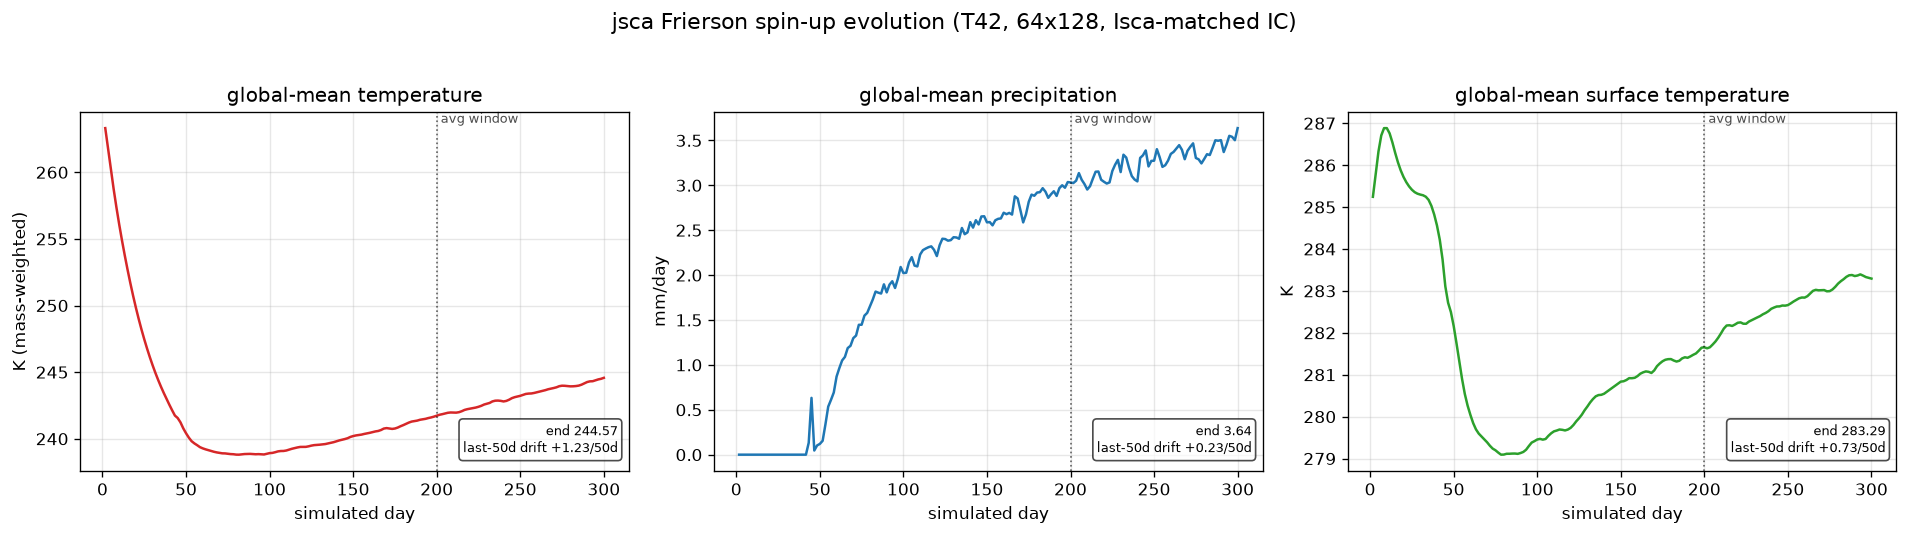
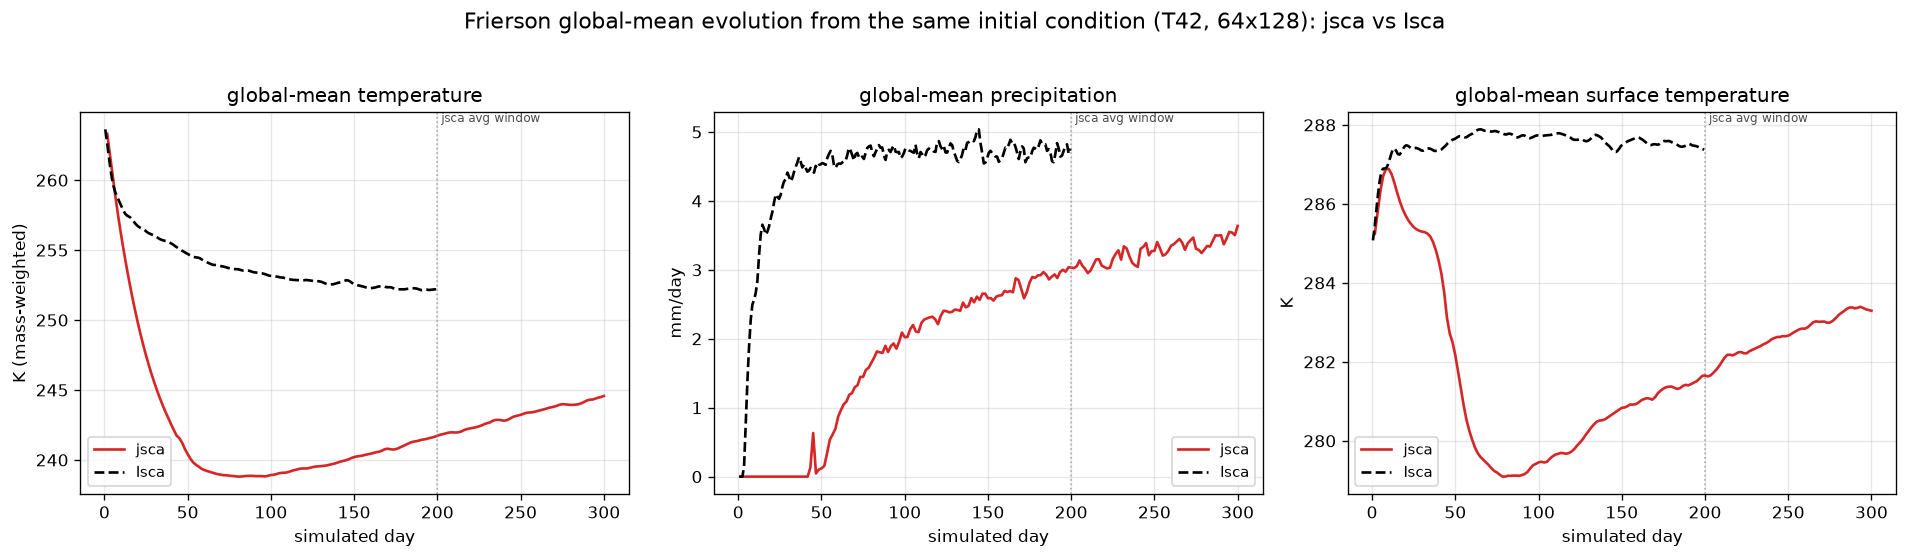
frierson: compare jsca vs Isca global-mean spin-up evolution
Add Isca's per-day global-mean time series (extracted from the 200-day
frierson_test_case atmos_daily.nc, same weighting as the jsca driver) and
overlay it on jsca's evolution. Both start from the same IC, so the
trajectories are directly comparable:

  * Isca equilibrates fast -- surface flat by ~day 25 (285->287.4 K),
    column T ~252 K and precip ~4.6 mm/day by ~day 100; no cold overshoot.
  * jsca overshoots cold/dry (column to 239 K, surface to 279 K by day 85,
    precip ~0 for the first ~6 weeks) then recovers slowly, still climbing
    at day 300 toward Isca's values.

So the climatology cold bias is jsca sampled mid-recovery on a much
longer equilibration timescale; the slow moisture spin-up is the visible
signature. Per-step physics is machine-precision validated, so the
difference is in the transient approach, not the tendencies.

- extract_isca_evolution.py: reproducible extractor for the Isca series
- plot_frierson_evolution.py: overlay jsca vs Isca
- frierson_isca_evolution_t42.npz committed; docs updated

Part of #27.

diff --git a/scripts/plot_frierson_evolution.py b/scripts/plot_frierson_evolution.py
@@ -1,17 +1,18 @@
-"""Temporal evolution of jsca Frierson global means (spin-up + averaging window).
+"""Temporal evolution of Frierson global means -- jsca vs Isca.
 
-Reads a time-series ``.npz`` written by the climatology driver — chunk-mean,
-area-weighted global means recorded every ~1.7 simulated days:
+Overlays the spin-up trajectories of the area-weighted global means (mass-weighted
+T, precip mm/day, t_surf) for jsca and, if available, the real Isca run. Both
+runs start from the *same* initial condition (Isca's Frierson IC), so the
+trajectories are directly comparable -- this is the diagnostic behind the
+"is the cold bias just slow equilibration?" question in
+``docs/frierson_climatology.md``.
 
-  ``day``, ``gm_T`` (mass-weighted global-mean temperature, K),
-  ``gm_precip`` (global-mean precipitation, mm/day), ``gm_tsurf`` (K).
+References (in ``baseline/reference/``):
+  * ``frierson_jsca_evolution_t42x64.npz`` -- jsca (``day``, ``gm_T``,
+    ``gm_precip``, ``gm_tsurf``, ``spinup_end_day``);
+  * ``frierson_isca_evolution_t42.npz``   -- Isca, same keys (optional).
 
-Plots the three series so the approach to equilibrium (and any residual drift)
-is visible at a glance — the diagnostic behind the "is the cold bias just
-incomplete equilibration?" question in ``docs/frierson_climatology.md``.
-
-Usage: ``python scripts/plot_frierson_evolution.py [timeseries.npz] [out.png]``
-Defaults read the committed ``baseline/reference/frierson_jsca_evolution_t42x64.npz``.
+Usage: ``python scripts/plot_frierson_evolution.py [jsca.npz] [out.png]``
 """
 import sys
 from pathlib import Path
@@ -23,39 +24,37 @@ matplotlib.use("Agg")
 import matplotlib.pyplot as plt  # noqa: E402
 
 ROOT = Path(__file__).resolve().parent.parent
-src = Path(sys.argv[1]) if len(sys.argv) > 1 else \
-    ROOT / "baseline" / "reference" / "frierson_jsca_evolution_t42x64.npz"
+ref = ROOT / "baseline" / "reference"
+jsrc = Path(sys.argv[1]) if len(sys.argv) > 1 else ref / "frierson_jsca_evolution_t42x64.npz"
 out = Path(sys.argv[2]) if len(sys.argv) > 2 else \
     ROOT / "docs" / "figures" / "frierson_spinup_evolution.png"
+isrc = ref / "frierson_isca_evolution_t42.npz"
 
-d = np.load(src)
-day, gm_T, gm_P, gm_Ts = d["day"], d["gm_T"], d["gm_precip"], d["gm_tsurf"]
-spinup_end = float(d["spinup_end_day"]) if "spinup_end_day" in d else None
+J = np.load(jsrc)
+I = np.load(isrc) if isrc.exists() else None
+spinup_end = float(J["spinup_end_day"]) if "spinup_end_day" in J else None
 
-fig, axes = plt.subplots(1, 3, figsize=(16, 4.5))
-panels = [
-    (gm_T, "global-mean temperature", "K (mass-weighted)", "C3"),
-    (gm_P, "global-mean precipitation", "mm/day", "C0"),
-    (gm_Ts, "global-mean surface temperature", "K", "C2"),
-]
-for ax, (y, title, ylab, c) in zip(axes, panels):
-    ax.plot(day, y, color=c, lw=1.5)
+fig, axes = plt.subplots(1, 3, figsize=(16, 4.7))
+panels = [("gm_T", "global-mean temperature", "K (mass-weighted)"),
+          ("gm_precip", "global-mean precipitation", "mm/day"),
+          ("gm_tsurf", "global-mean surface temperature", "K")]
+for ax, (key, title, ylab) in zip(axes, panels):
+    ax.plot(J["day"], J[key], color="C3", lw=1.6, label="jsca")
+    if I is not None:
+        ax.plot(I["day"], I[key], color="k", lw=1.6, ls="--", label="Isca")
     if spinup_end is not None:
-        ax.axvline(spinup_end, color="k", ls=":", lw=1, alpha=0.6)
-        ax.text(spinup_end, ax.get_ylim()[1], " avg window", va="top", fontsize=8, alpha=0.7)
+        ax.axvline(spinup_end, color="grey", ls=":", lw=1, alpha=0.6)
+        ax.text(spinup_end, ax.get_ylim()[1], " jsca avg window", va="top", fontsize=7, alpha=0.7)
     ax.set_xlabel("simulated day")
     ax.set_ylabel(ylab)
     ax.set_title(title)
     ax.grid(alpha=0.3)
-    # annotate the last value + drift over the final 50 days
-    late = day >= day[-1] - 50
-    if late.sum() > 1:
-        slope = np.polyfit(day[late], y[late], 1)[0]
-        ax.text(0.98, 0.04, f"end {y[-1]:.2f}\nlast-50d drift {slope * 50:+.2f}/50d",
-                transform=ax.transAxes, ha="right", va="bottom", fontsize=8,
-                bbox=dict(boxstyle="round", fc="w", alpha=0.7))
+    ax.legend(loc="best", fontsize=9)
 
-fig.suptitle("jsca Frierson spin-up evolution (T42, 64x128, Isca-matched IC)", fontsize=13)
+fig.suptitle("Frierson global-mean evolution from the same initial condition "
+             "(T42, 64x128): jsca vs Isca", fontsize=13)
 fig.tight_layout(rect=(0, 0, 1, 0.95))
 fig.savefig(out, dpi=120, bbox_inches="tight")
-print("wrote", out, f"({len(day)} points, day {day[0]:.1f}-{day[-1]:.1f})")
+msg = f"wrote {out} (jsca day {J['day'][0]:.0f}-{J['day'][-1]:.0f}"
+msg += f", Isca day {I['day'][0]:.0f}-{I['day'][-1]:.0f})" if I is not None else ", no Isca ref)"
+print(msg)

diff --git a/scripts/extract_isca_evolution.py b/scripts/extract_isca_evolution.py
@@ -1,0 +1,48 @@
+"""Extract the Isca global-mean spin-up time series from an Isca run's daily output.
+
+Reads a pinned-Isca ``frierson_test_case`` ``atmos_daily.nc`` and writes
+``baseline/reference/frierson_isca_evolution_t42.npz`` with per-day area-weighted
+global means (``day``, ``gm_T``, ``gm_precip``, ``gm_tsurf``) computed with the
+*same* weighting as the jsca driver: mass-weighted vertical mean of ``temp`` over
+the Frierson sigma layers (``sum_k T_k * dbk``), then cos-lat area mean; precip in
+mm/day. This is the Isca curve overlaid by ``plot_frierson_evolution.py``.
+
+Usage: ``python scripts/extract_isca_evolution.py /path/to/atmos_daily.nc [out.npz]``
+The netCDF is produced by the run recipe in
+``fortran_instrumentation/frierson_step_recipe.md``.
+"""
+import sys
+from pathlib import Path
+
+import netCDF4 as nc
+import numpy as np
+
+from jsca.model.frierson import FRIERSON_BK
+
+src = sys.argv[1]
+_ref = Path(__file__).resolve().parent.parent / "baseline" / "reference"
+out = Path(sys.argv[2]) if len(sys.argv) > 2 else _ref / "frierson_isca_evolution_t42.npz"
+
+d = nc.Dataset(src)
+lat = d.variables["lat"][:]
+day = d.variables["time"][:]
+temp = d.variables["temp"][:]            # (time, pfull, lat, lon)
+precip = d.variables["precipitation"][:]  # (time, lat, lon), kg/m^2/s
+tsurf = d.variables["t_surf"][:]          # (time, lat, lon)
+d.close()
+
+w = np.cos(np.deg2rad(lat))
+Wsum = w.sum()
+dbk = FRIERSON_BK[1:] - FRIERSON_BK[:-1]   # sigma-layer thickness, sums to 1
+
+
+def gm2d(f):                               # (time, lat, lon) -> (time,)
+    return (w[None, :, None] * f).sum(axis=(1, 2)) / (Wsum * f.shape[2])
+
+
+gm_T = gm2d((temp * dbk[None, :, None, None]).sum(axis=1))
+gm_precip = gm2d(precip) * 86400.0
+gm_tsurf = gm2d(tsurf)
+np.savez(out, day=np.asarray(day), gm_T=gm_T, gm_precip=gm_precip, gm_tsurf=gm_tsurf)
+print(f"wrote {out} (day {day[0]:.1f}-{day[-1]:.1f}; "
+      f"gm_T {gm_T[0]:.1f}->{gm_T[-1]:.1f}, gm_tsurf {gm_tsurf[0]:.1f}->{gm_tsurf[-1]:.1f})")

diff --git a/docs/frierson_climatology.md b/docs/frierson_climatology.md
@@ -47,28 +47,38 @@ precipitation (corr 0.93 → **0.98**), temperature and humidity (0.99 → **0.9
 strengthened the jet (24.5 → **28.6 m/s**), and **reduced the cold bias**
 (`t_surf` −6.8 → **−5.6 K**, `T` −10.3 → **−9.1 K**).
 
-## The cold bias is incomplete equilibration (not a fixed offset)
+## The cold bias is incomplete equilibration — jsca vs Isca spin-up
 
-A roughly uniform cold offset remains — `t_surf` −5.6 K, `T` −9.1 K. The spin-up
-time series settles the question of *what* it is:
+A roughly uniform cold offset remains — `t_surf` −5.6 K, `T` −9.1 K. Overlaying
+the jsca and Isca global-mean **trajectories** (both started from the *same*
+initial condition, so this is apples-to-apples) settles what it is:
 
-![global-mean evolution](figures/frierson_spinup_evolution.png)
+![global-mean evolution, jsca vs Isca](figures/frierson_spinup_evolution.png)
 
-From the 264 K isothermal start the global mean **overshoots cold** (grey
-radiation cools the column faster than convection and surface fluxes warm it),
-bottoming near day 85 (`gm_T` ≈ 239 K, `gm_tsurf` ≈ 279 K), then **recovers
-slowly and is still warming at day 300** — `gm_tsurf` +0.7 K / 50 days, `gm_T`
-+1.2 K / 50 days, `gm_precip` still rising. **The averaging window (days 200-300,
-right of the dotted line) is itself still on the warming ramp**, so the reported
-climatology is sampled below jsca's eventual equilibrium — which is exactly the
-sign and rough magnitude of the residual cold bias.
+- **Isca equilibrates fast.** Its surface warms monotonically 285 → 287.4 K and
+  is flat by ~day 25; global-mean `T` settles to ~252 K and precip to ~4.6 mm/day
+  by ~day 100. No cold overshoot.
+- **jsca equilibrates slowly and overshoots cold/dry.** From the same 264 K start
+  the column plunges to `gm_T` ≈ 239 K (day 85) and the surface dips to ≈279 K
+  (grey radiation cools the column faster than the slowly-building moist processes
+  warm it), then both **recover — but are still climbing at day 300** (`gm_T`
+  +1.2 K/50 d, `gm_tsurf` +0.7 K/50 d). Precip is near-zero until ~day 45, then
+  rises steadily and is still short of Isca's value at day 300.
 
-So the bias is a **slow approach to equilibrium**, and the trend is unambiguously
-*toward* Isca. This is consistent with the per-step column physics being
-validated against Isca to machine precision
-(`tests/test_idealized_moist_phys_fixtures.py`: radiation 1e-18, momentum 1e-15,
-thermodynamics at the `sat_vapor_pres` deviation ~1e-9), which excludes a
-per-step physics error. Two things would sharpen the match, both follow-ups:
+So jsca is converging toward the *same* equilibrium Isca reached, on a much
+longer timescale, and the reported climatology (days 200-300, right of the dotted
+line) is sampled **mid-recovery** — which is exactly the sign and rough size of
+the residual cold/dry bias. The most visible signature is the **slow moisture
+spin-up**: jsca barely rains for the first ~6 weeks, so its atmosphere loses the
+early latent heating Isca's gets, deepening the cold excursion into a cold/dry
+transient it then slowly climbs out of.
+
+This is consistent with the per-step column physics being validated against Isca
+to machine precision (`tests/test_idealized_moist_phys_fixtures.py`: radiation
+1e-18, momentum 1e-15, thermodynamics at the `sat_vapor_pres` deviation ~1e-9),
+which excludes a per-step physics error — the difference is in the *transient
+approach*, not the per-step tendencies. Two things would sharpen the match, both
+follow-ups:
 
 1. **Integrate longer** (or average a later window) so the drift damps out.
 2. **Warm-start** closer to equilibrium to skip the cold overshoot entirely.
